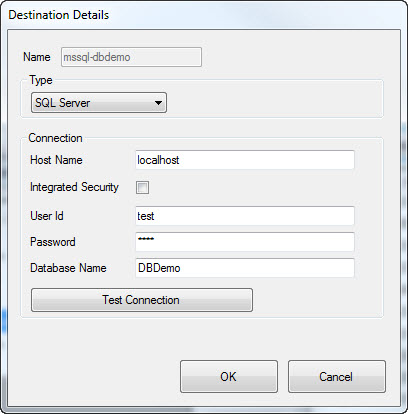
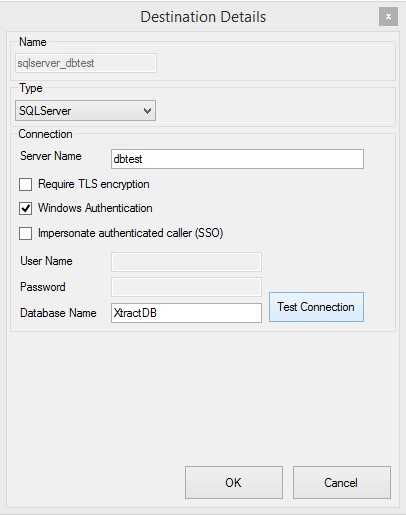
XU:SQL Server destination

diff --git a/content/_en/xtract-universal/xu-destinations/microsoft-sql-server/sql-server-connection.md b/content/_en/xtract-universal/xu-destinations/microsoft-sql-server/sql-server-connection.md
@@ -16,20 +16,27 @@ The following settings can be defined for the Microsoft SQL database connection.
 ![MSSql-Destination-Details](/img/content/MSSql-Destination-Details.jpg){:class="img-responsive"}
 
 
-**Host Name**<br>
-Defines the name of the SQL server.
+**Server Name**<br>
+Defines the name of the host the SQL server is running on.
 
-**Integrated Security**<br>
-Defines if the Windows Integrated Security should be used. Alternatively use:
+**Require TLS encryption**<br>
+Clientside enforcement for using [TLS encrpytion[(https://docs.microsoft.com/en-us/azure/sql-database/sql-database-security-overview). 
 
-**User ID**<br>
-The user id and 
+
+**Windows Authentication**
+Uses the service account, under which the XU service is running, for authentication against SQL Server.
+
+**Impersonate authenticated caller**
+Uses the Windows AD user, executing the extraction, for authentication against SQL Server. (Kerberos)
+
+**User Name**<br>
+SQL Server authentication - user id 
 
 **Password**<br>
-The password.
+SQL Server authentication - password
 
 **Database Name**<br>
-Defines the name of the SQL database.
+Defines the name of the SQL Server database.
              
 **Test Connection**<br>
 Checks the database connection. 
@@ -37,4 +44,4 @@ Checks the database connection.
 
 **Database Schema**<br> 
 By default the user's default schema dbo will be used. 
-To use another schema, you should set it as the default schema for your user on the SQL Server database. 
+To use another schema, you should set it as the [default schema](https://docs.microsoft.com/en-us/sql/t-sql/statements/alter-user-transact-sql?view=sql-server-2017) for your user on the SQL Server database. 
